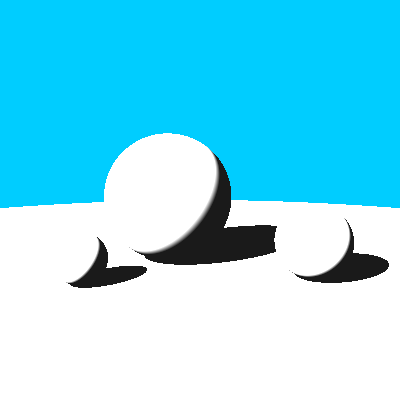
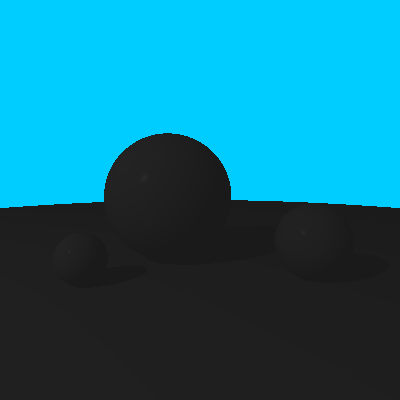
Lab9_2 Update colorAtPoint() in PointLightSource

diff --git a/src/main/kotlin/PointLightSource.kt b/src/main/kotlin/PointLightSource.kt
@@ -8,12 +8,15 @@ class PointLightSource(private val position: Point, color: Color = Color.WHITE, 
 
     override fun directionToPoint(point: Point): Vector = (point - position).normalize()
 
-    override fun distanceFromPoint(point: Point): Double  = (position - point).magnitude()
+    override fun distanceFromPoint(point: Point): Double  =
+        (position - point).magnitude()
+        // (position - point).normalize().magnitude()
 
     override fun colorAtPoint(point: Point): Color =
         //  почему-то картинки из Лабы получаются правильные, если не использовать коэффициент дистанции
-        // getColor() * getIntensity() * (1.0 / (distanceFromPoint(point) * distanceFromPoint(point)))
-        getColor() * getIntensity()
+        getColor() * getIntensity() * (1.0 / (distanceFromPoint(point) * distanceFromPoint(point)))
+        // getColor() * (getIntensity()  / (distanceFromPoint(point) * distanceFromPoint(point)))
+        // getColor() * getIntensity()
 
     override fun equals(other: Any?): Boolean {
         if (this === other) return true

diff --git a/src/main/kotlin/task09.kt b/src/main/kotlin/task09.kt
@@ -20,14 +20,6 @@ fun main() {
     var width = 400
     val height = 400
 
-    val intensities = listOf(0.1, 1.0, 10.0, 100.0)
-    for ((index, intensity) in intensities.withIndex()) {
-        scene.clearLights()
-        scene.addLight(PointLightSource(Point(-10, 10, -10), intensity = intensity))
-        saveSceneCanvasFromCamera("task09_${index + 10}", scene, width, height, fov, position, lookAt, up)
-    }
-
-
     // saveSceneCanvasFromCamera("task09_1", scene, width, height, fov, position, lookAt, up)
     //
     // // settings for task09_2
@@ -75,5 +67,12 @@ fun main() {
     //     scene.addLight(PointLightSource(Point(-10, 10, -10), intensity = intensity))
     //     saveSceneCanvasFromCamera("task09_${index + 10}", scene, width, height, fov, position, lookAt, up)
     // }
+
+    val intensities = listOf(0.1, 1.0, 10.0, 100.0)
+    for ((index, intensity) in intensities.withIndex()) {
+        scene.clearLights()
+        scene.addLight(PointLightSource(Point(-10, 10, -10), intensity = intensity))
+        saveSceneCanvasFromCamera("task09_${index + 14}", scene, width, height, fov, position, lookAt, up)
+    }
 
 }
